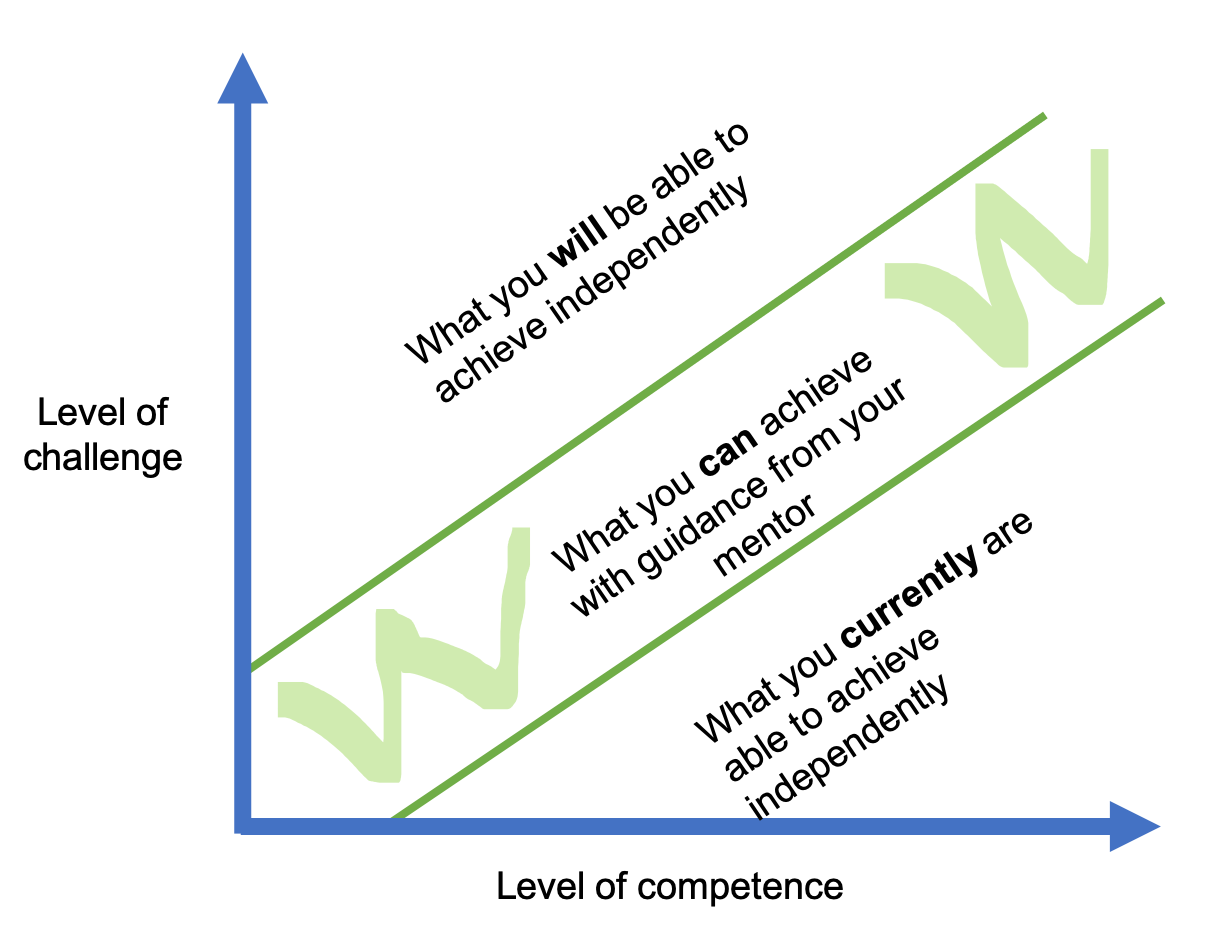
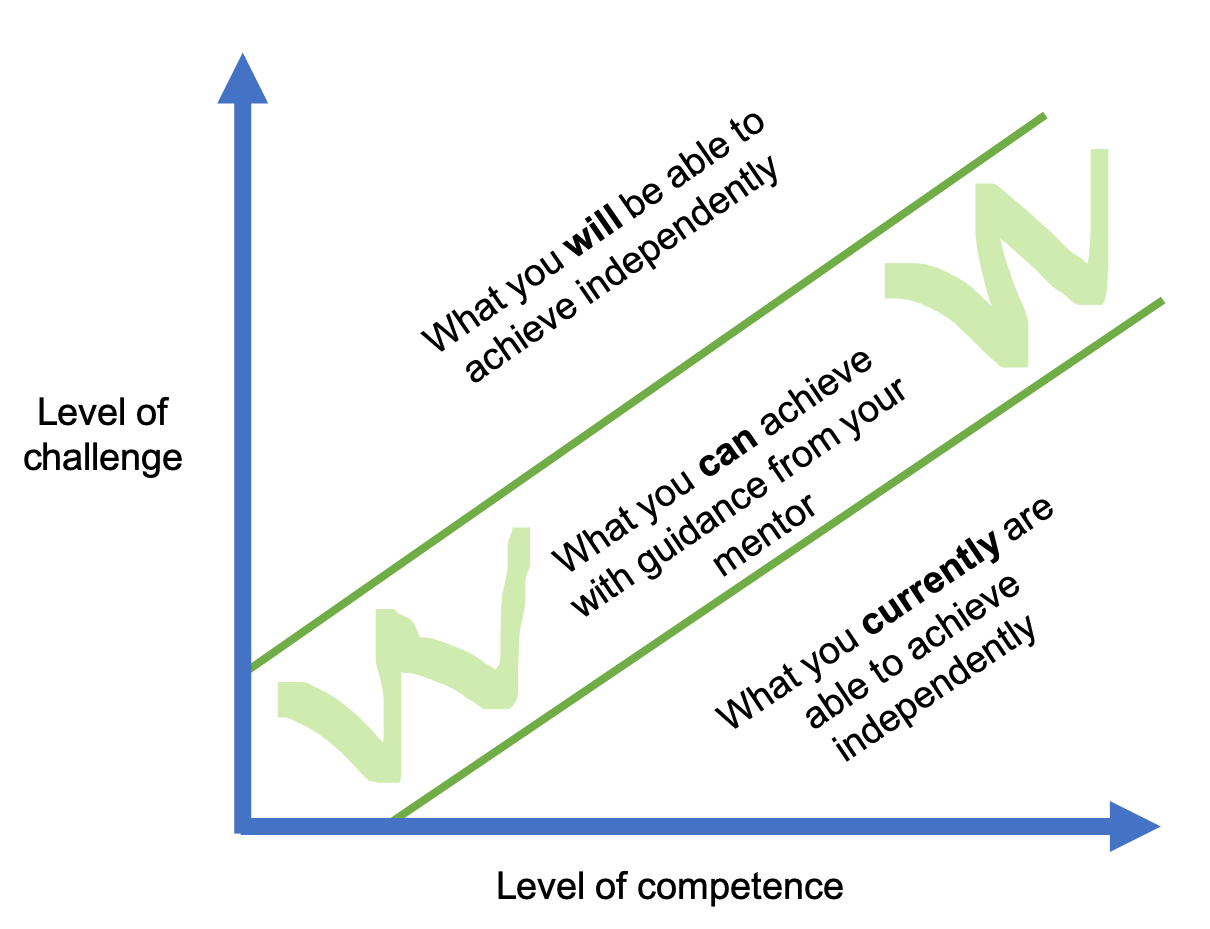
...

Changed region(s): [[0.581, 0.5307, 0.8868, 0.8741], [0.3364, 0.1249, 0.6421, 0.437]]

diff --git a/_posts/2019-07-23-Mentoring-graduate-software-developers.md b/_posts/2019-07-23-Mentoring-graduate-software-developers.md
@@ -22,8 +22,6 @@ Mentoring is a great way to grow software developers. From what I've seen, I don
 **Human connection**. We learn best through **social interactions** from people we feel connected to. Mentoring done right forms a human connection between mentor and mentee that enhances the growth experience.
 
 
-<img class="img-responsive" alt="Introducing technical mentoring" src="{{ site.url }}/assets/images/mentoring-software-developers-zone-of-proximal-development-for-mentoring.png">
-
 ### The ellusive definition 
 
 As I discovered early on, the word mentor/mentoring is a loaded word. It means vastly different things to different people. If you read the [definition on Wikipedia](https://en.wikipedia.org/wiki/Mentorship) it says: *"Mentoring is a process that always involves communication and is relationship-based, but its precise definition is elusive."*. 
@@ -45,6 +43,12 @@ So what is technical mentoring? Let me propose a definition...
 Technical mentoring is a process for the informal transmission of knowledge, skills, and support perceived by the recipient as relevant to their development as a software professional; it entails informal communication, usually face-to-face and during a sustained period of time, between the person who is perceived to have greater relevant knowledge, wisdom, and technical skills (the mentor) and a person who is perceived to have less (the protégé)"*.
 
 > Technical mentoring is a process for the informal transmission of knowledge, skills, and support between the mentor and the protege relevant to their development as a software professional 
+
+One way to visually represent what technical mentoring helps achieve is the following diagram. This is my adaption of Vygotsky's zone of proximal development but with a spin on mentoring. Vygotsky's work is used largely in the child development space but I believe it translates well to developing software practitioners as well. 
+
+<img class="img-responsive" alt="Introducing technical mentoring" src="{{ site.url }}/assets/images/mentoring-software-developers-zone-of-proximal-development-for-mentoring.png">
+
+There are a set of things you are comfortable doing independently, and a set of things that are beyond your current abilities. Somewhere between those two areas is a zone where if guided you are able operate and perform. This is where your technical mentor fits in, they are there to guide you using various tools and techniques. With time and practice you are able to improve and do more challenging work independently.
 
 ### Technical mentoring is a role, not a tool
 
